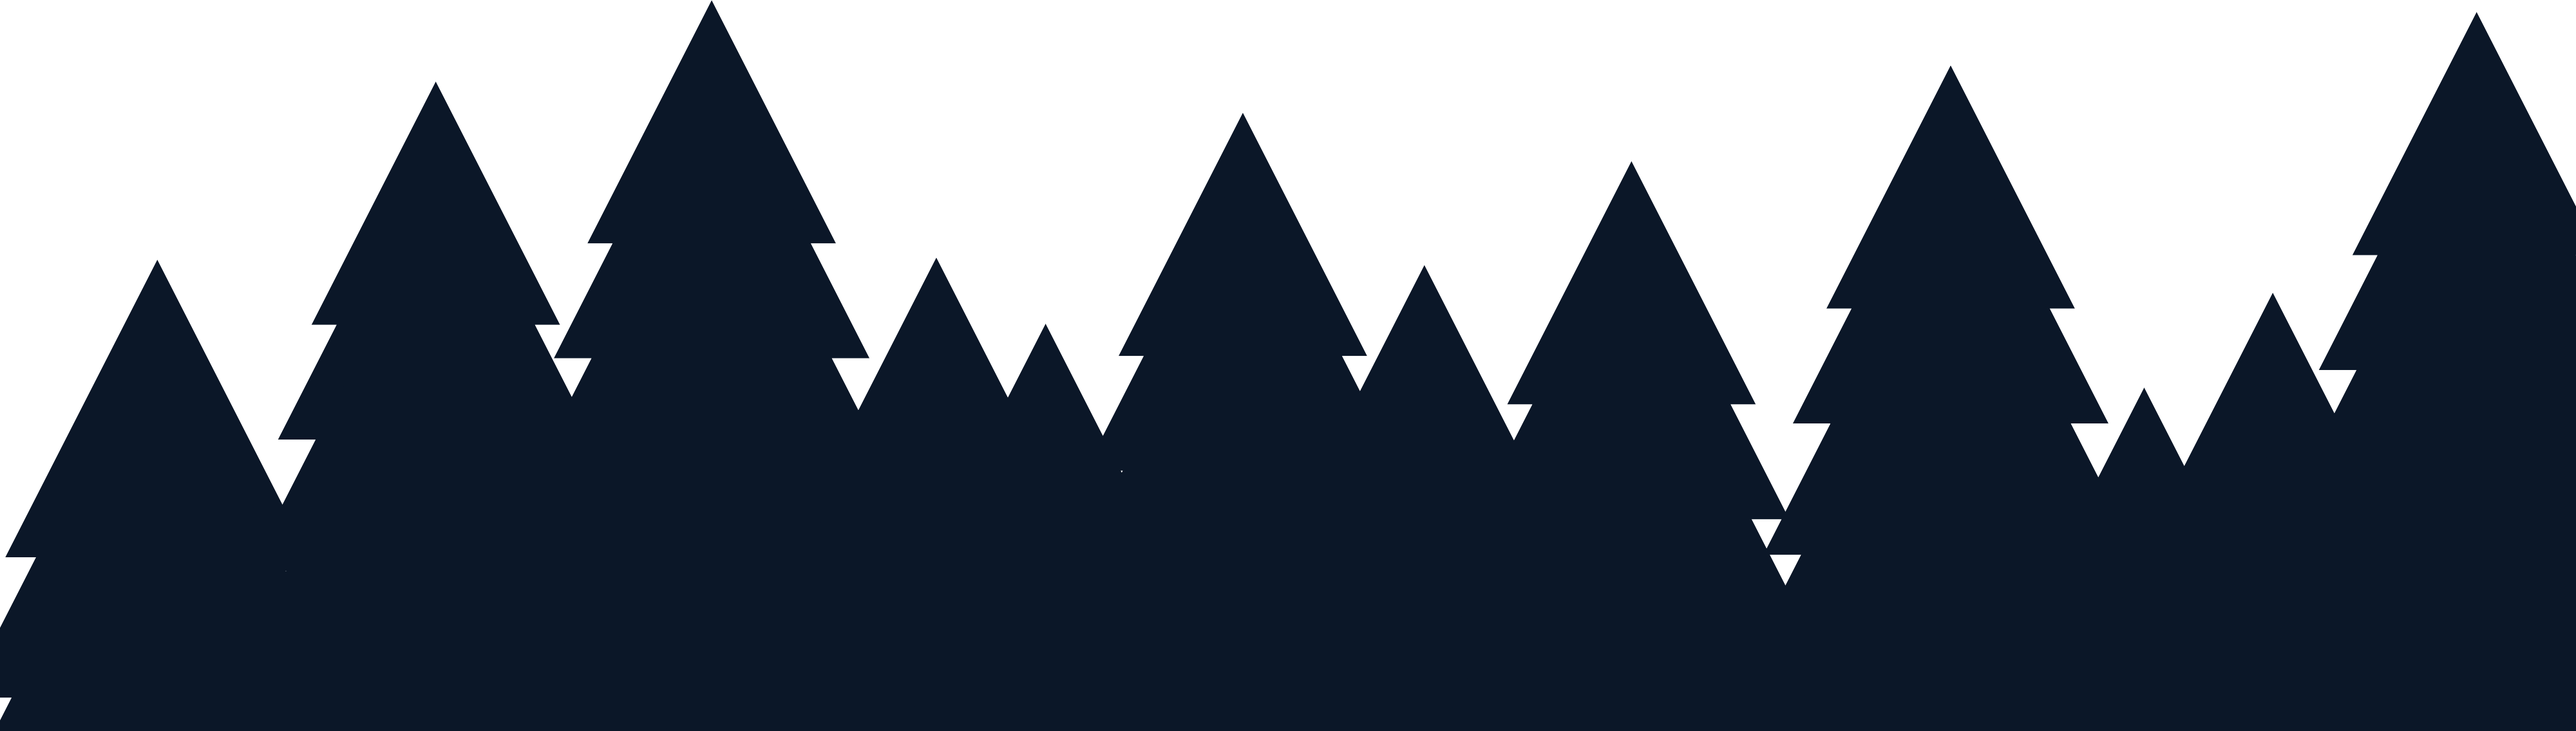
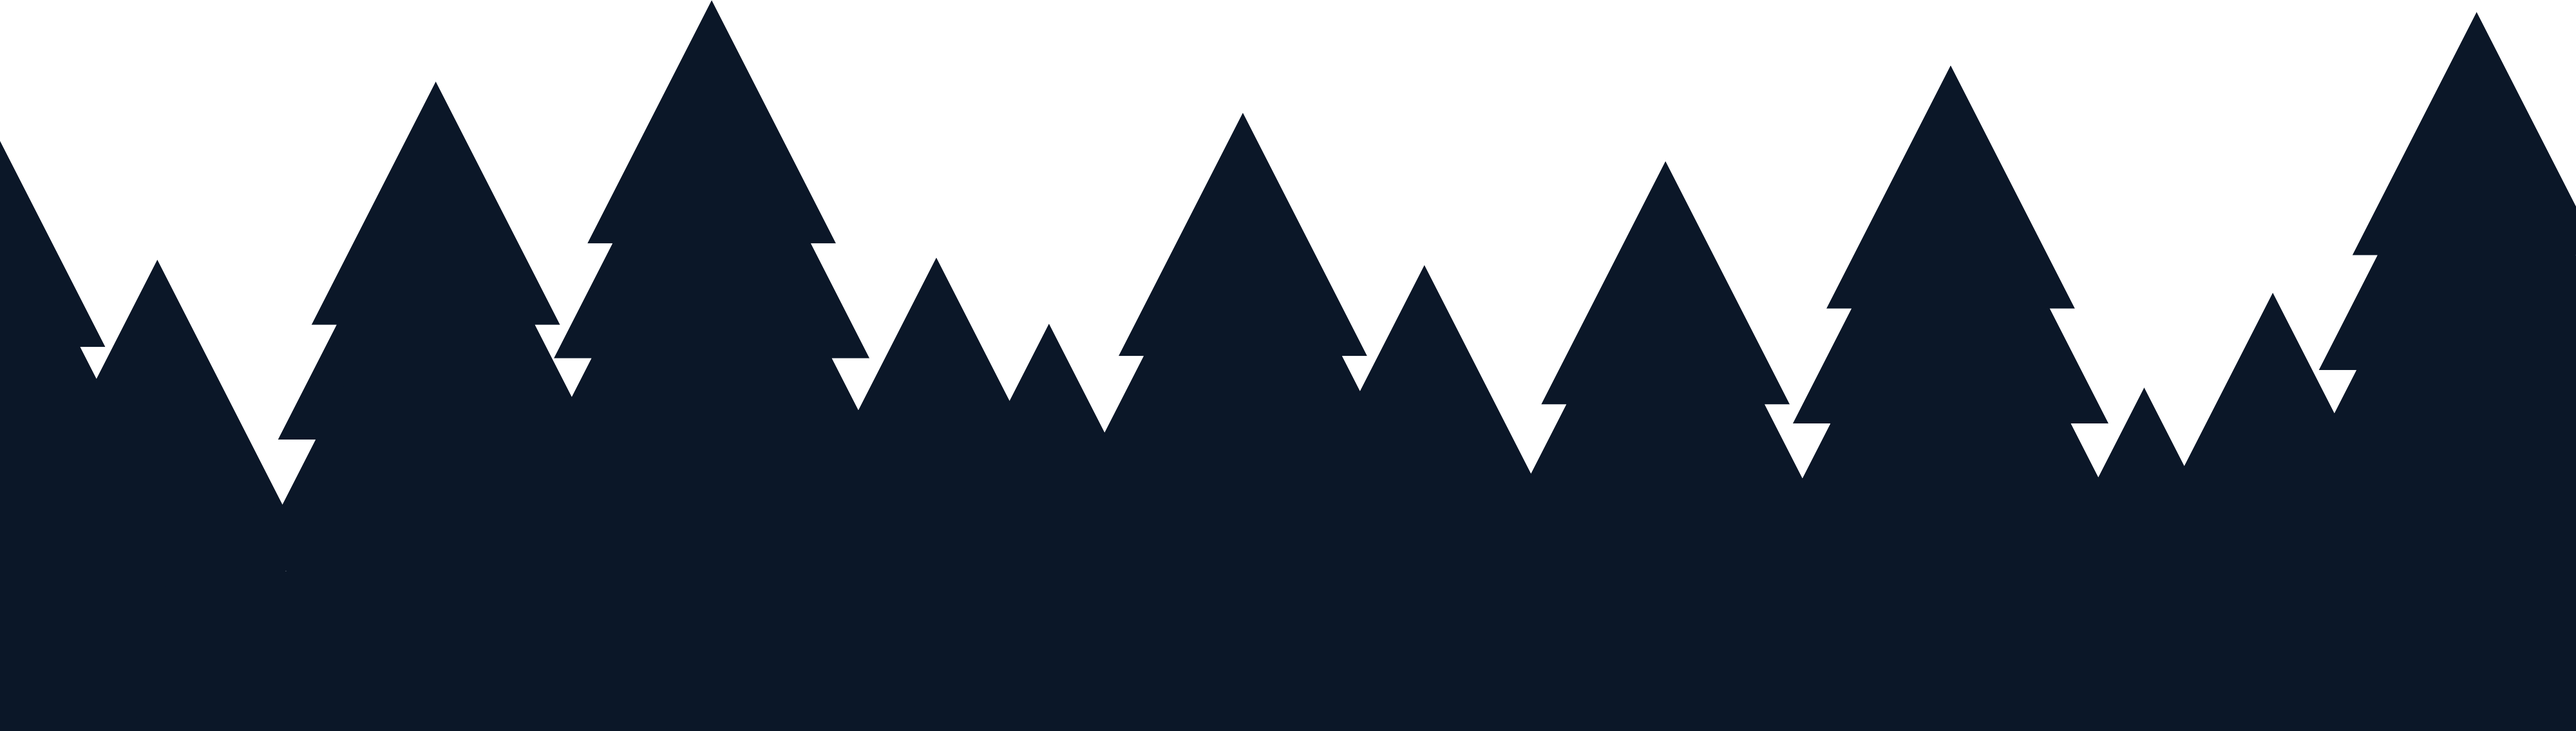
Add extra trees and change some colors

diff --git a/docs/index.html b/docs/index.html
@@ -3,7 +3,7 @@
     <head>
         <meta charset="UTF-8" />
         <meta name="viewport" content="width=device-width, initial-scale=1.0" />
-        <title>Portfolio</title>
+        <title>Simone Kouters</title>
         <link rel="stylesheet" href="styles.css" />
         <link rel="preconnect" href="https://fonts.googleapis.com" />
         <link rel="preconnect" href="https://fonts.gstatic.com" crossorigin />
@@ -32,10 +32,11 @@
             <div id="trees-image-container">
                 <img
                     id="background-trees"
-                    src="images/trees-light.png"
+                    src="images/trees-3.png"
                     alt="bomen"
                 />
-                <img src="images/trees-dark.png" alt="bomen" />
+                <img id="middle-trees" src="images/trees-2.png" alt="bomen" />
+                <img src="images/trees-1.png" alt="bomen" />
             </div>
 
             <a id="scroll-down" onclick="smoothScroll('#projecten')"
@@ -54,6 +55,7 @@
                 <div class="project-left">
                     <div class="project-image-container">
                         <img
+                            class="project-image"
                             src="images/project-images/stackunderflow.png"
                             alt="stack underflow"
                         />
@@ -154,6 +156,7 @@
                     </div>
                     <div class="project-image-container">
                         <img
+                            class="project-image"
                             src="images/project-images/stackunderflow.png"
                             alt="stack underflow"
                         />
@@ -163,6 +166,7 @@
                 <div class="project-left">
                     <div class="project-image-container">
                         <img
+                            class="project-image"
                             src="images/project-images/stackunderflow.png"
                             alt="stack underflow"
                         />

diff --git a/docs/styles.css b/docs/styles.css
@@ -38,7 +38,7 @@ a {
     display: flex;
     flex-direction: column;
     align-items: center;
-    background: linear-gradient(#1b3f57, #0f0e3b);
+    background: linear-gradient(#152f41, #0e1136);
     padding-top: 60px;
 }
 
@@ -49,7 +49,7 @@ a {
 }
 
 header {
-    background: linear-gradient(#87a5f2, #ff8faf 80%);
+    background: linear-gradient(#789eff, #ff8faf 80%);
     height: 100vh;
 }
 
@@ -147,8 +147,8 @@ header {
     display: flex;
     justify-content: space-between;
     background: linear-gradient(
-        rgba(135, 165, 242, 0.8),
-        rgba(135, 165, 242, 0.1)
+        rgba(120, 158, 255, 0.8),
+        rgba(14, 17, 54, 0.1)
     );
     padding: 30px;
     border-radius: 10px;
@@ -160,8 +160,7 @@ header {
     width: 50%;
 }
 
-.project-left img,
-.project-right img {
+.project-image {
     width: 100%;
     box-shadow: 5px -5px 10px rgba(43, 43, 43, 0.2);
 }
@@ -200,7 +199,7 @@ header {
 
 .project-tools h4 {
     padding: 5px 10px;
-    background-color: #87a5f2;
+    background-color: #789eff;
     border-radius: 50px;
     text-wrap: nowrap;
 }
@@ -255,6 +254,7 @@ header {
     border-radius: 100%;
     border: 3px solid white;
     width: 23%;
+    min-width: 250px;
 }
 
 #over-mij h3 {
@@ -270,7 +270,7 @@ header {
     grid-column-gap: 10px;
     grid-row-gap: 30px;
     padding: 20px 40px 40px 40px;
-    background-color: rgba(135, 165, 242, 0.2);
+    background-color: rgba(120, 158, 255, 0.2);
     border-radius: 10px;
     align-items: end;
 }
@@ -429,8 +429,7 @@ footer p {
         flex-direction: column;
     }
 
-    .project-left img,
-    .project-right img {
+    .project-image {
         width: 100%;
     }
 

diff --git a/docs/script.js b/docs/script.js
@@ -10,6 +10,9 @@ function smoothScroll(target) {
 
 window.addEventListener("scroll", function () {
     const scrolled = window.scrollY;
-    const background = document.querySelector(".background-trees");
-    background.style.transform = `translateY(${scrolled * 0.2}px)`;
+    const backgroundTrees = document.querySelector("#background-trees");
+    backgroundTrees.style.transform = `translateY(${scrolled * 0.3}px)`;
+
+    const middleTrees = document.querySelector("#middle-trees");
+    middleTrees.style.transform = `translateY(${scrolled * 0.15}px)`;
 });
